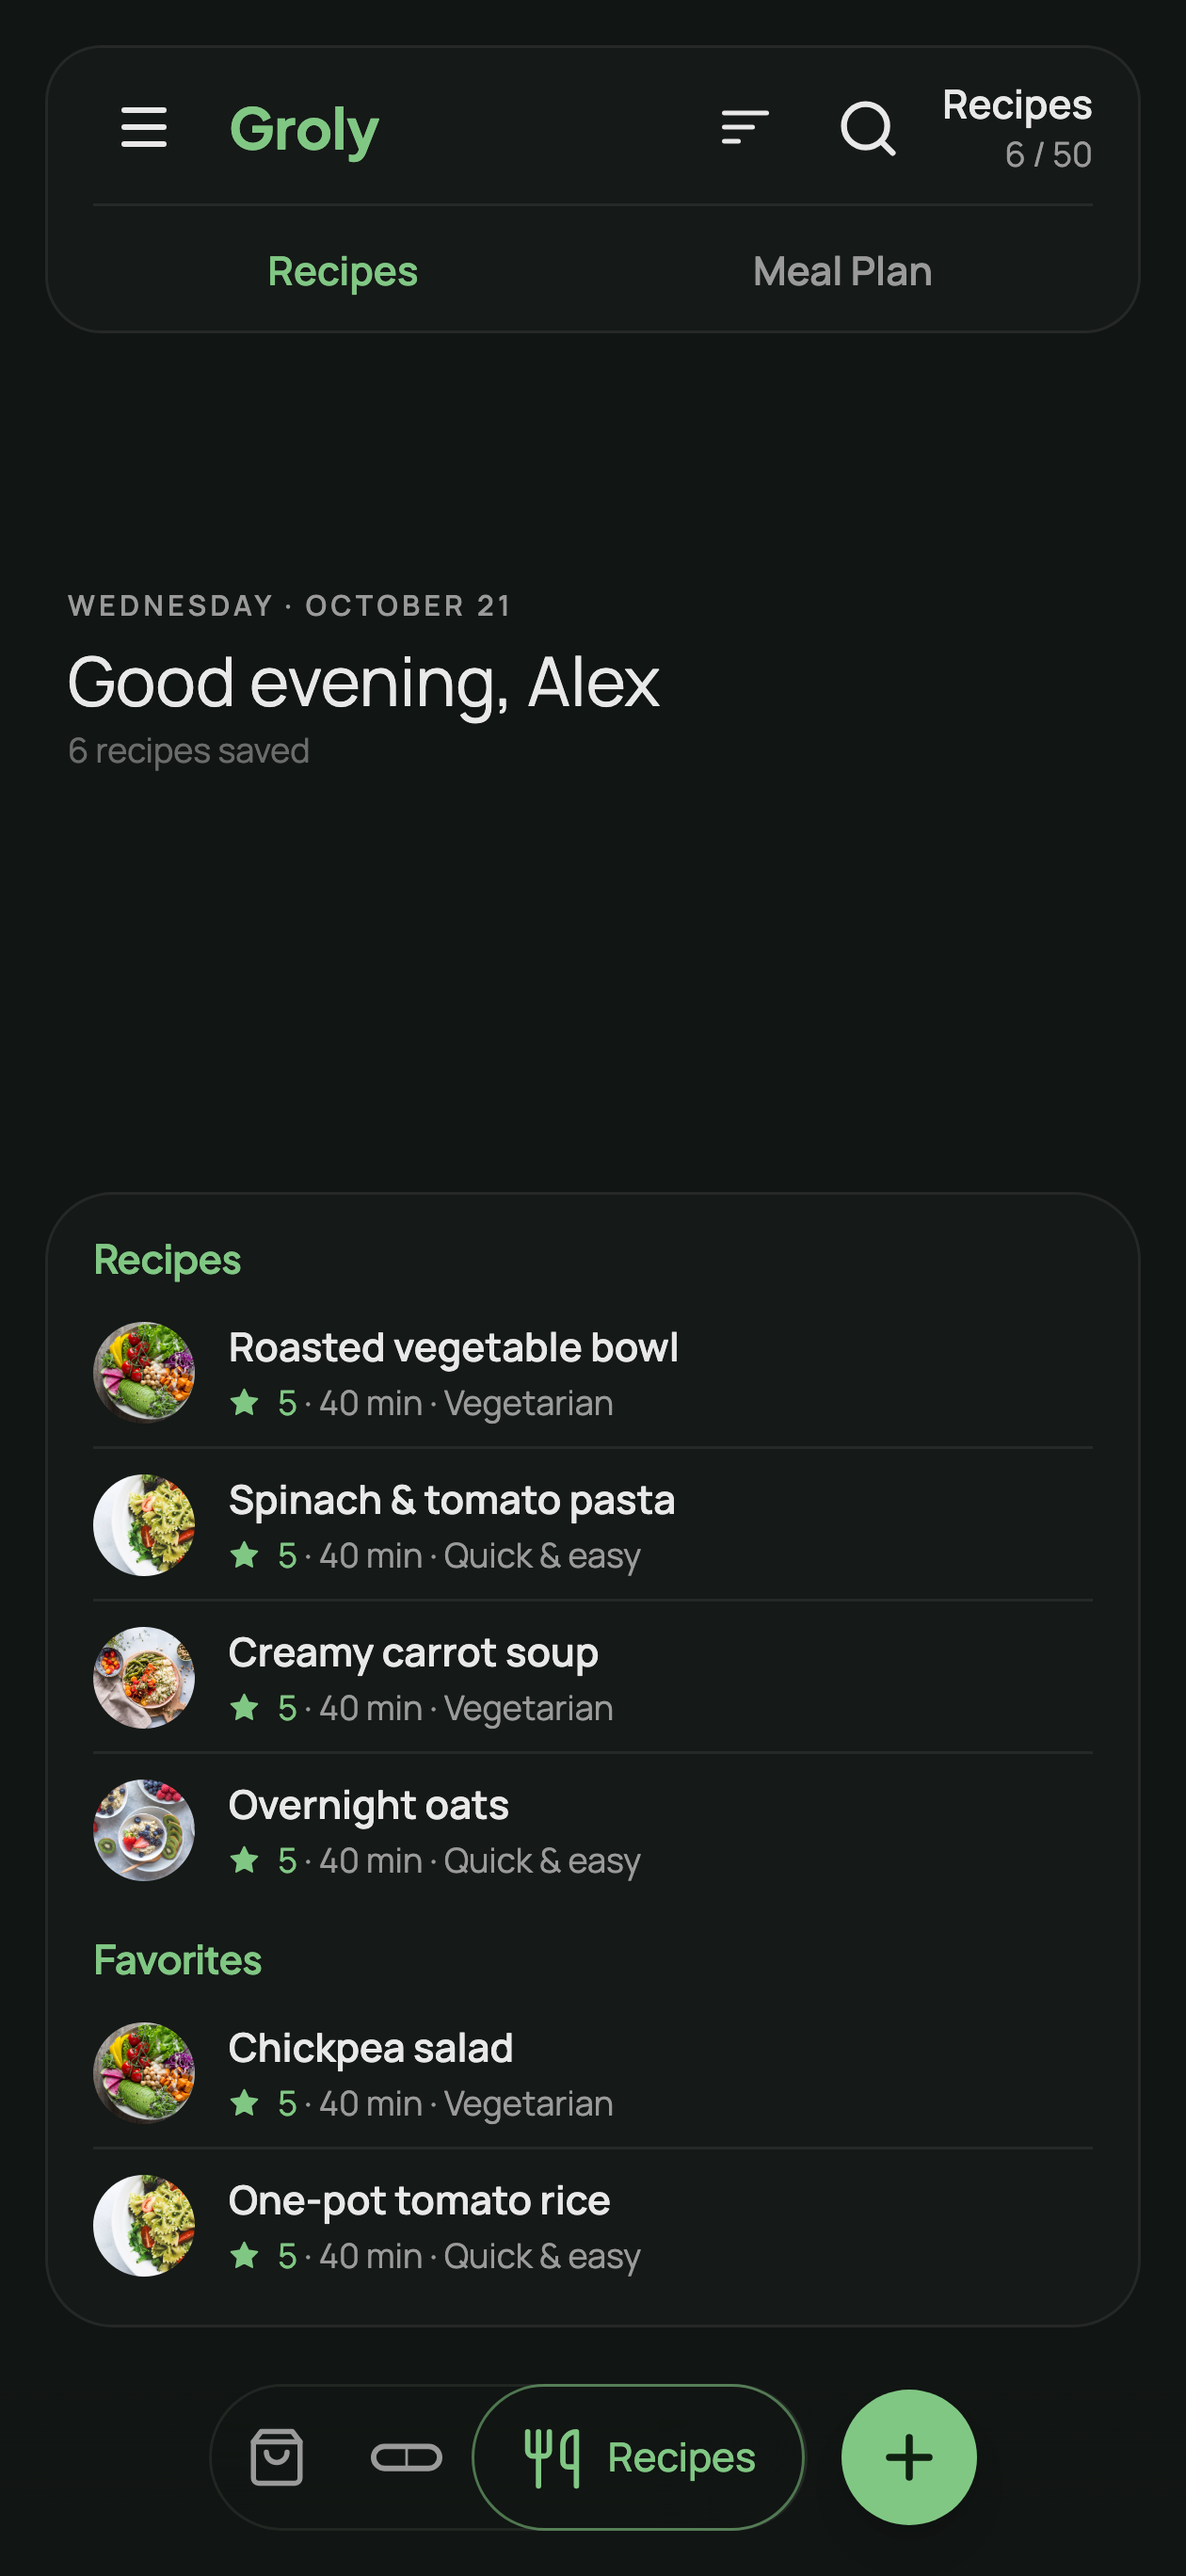
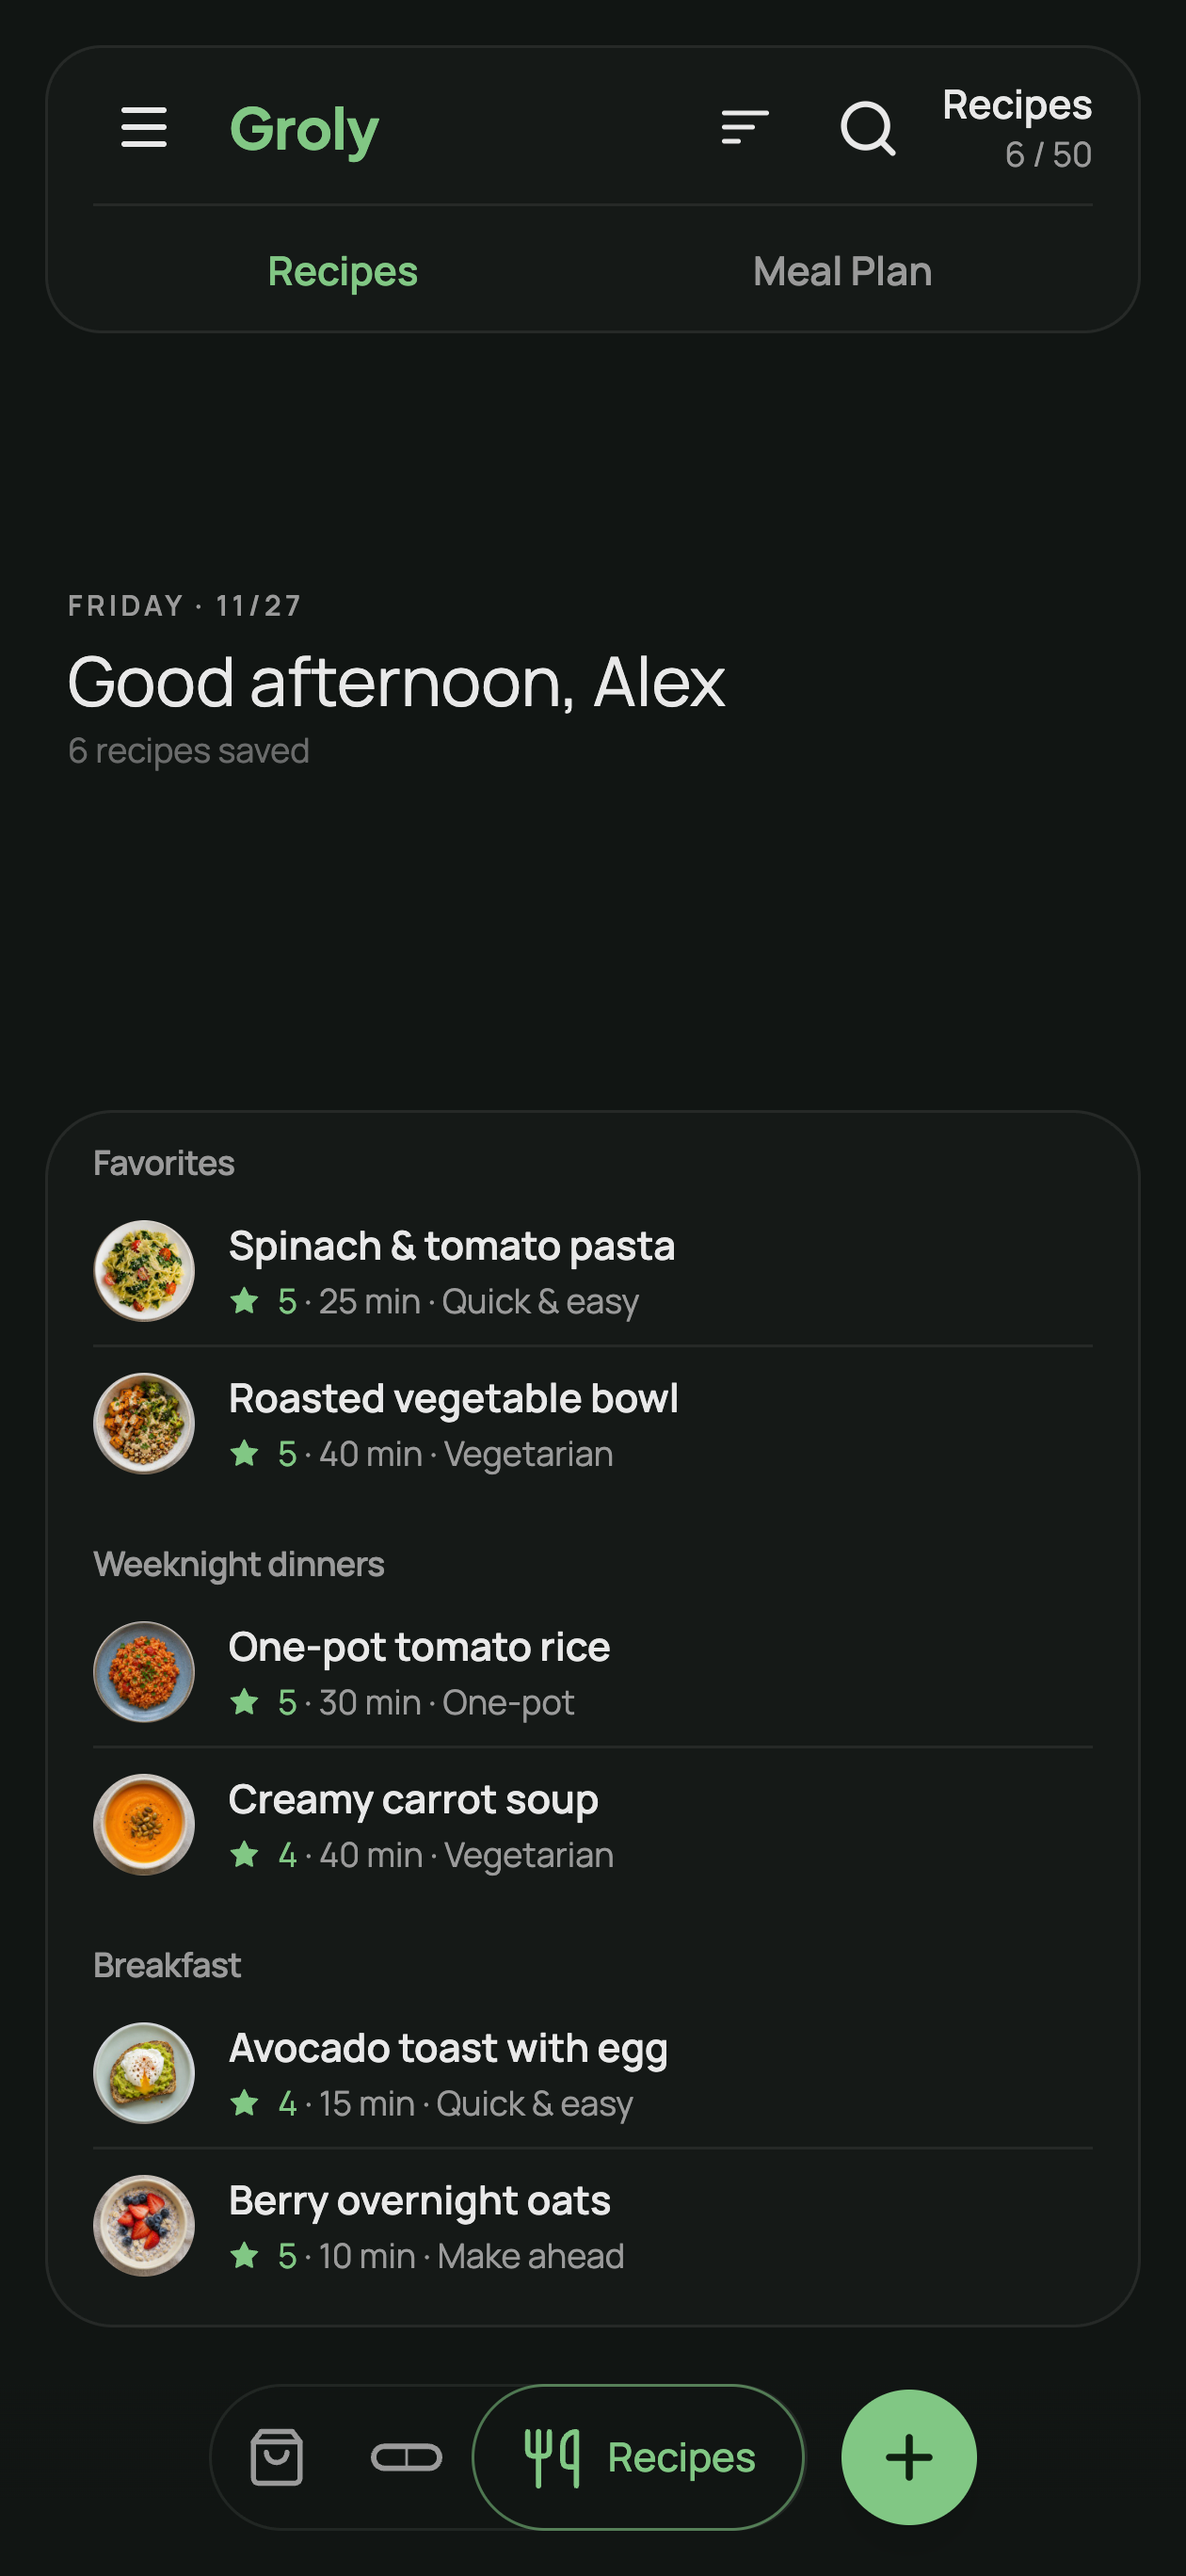
feat: release Groly 1.1.0

Changed region(s): [[0.0619, 0.4349, 0.5571, 0.901], [0.1238, 0.2175, 0.619, 0.2796], [0.0619, 0.2175, 0.0929, 0.2485]]

diff --git a/src/lib/changelog.ts b/src/lib/changelog.ts
@@ -3,33 +3,22 @@
 export type ChangelogEntry = { version: string; intro?: { de: string; en: string }; de: string[]; en: string[] };
 export const CHANGELOG: ChangelogEntry[] = [
 	{
-		version: '1.1.0-beta.2',
+		version: '1.1.0',
 		de: [
-			'Supplement-Einträge aus „Heute“ landen auch nach Mitternacht am richtigen Tag.',
-			'Hochgeladene Bilder sind nur für berechtigte Konten sichtbar. Geteilte Rezepte behalten ihre Bildvorschau.',
-			'Beim Abmelden werden offene Groly-Tabs desselben Kontos im Browser ebenfalls abgemeldet.'
+			'Neu sind gemeinsame Checklisten mit Abschnitten, Notizen und Erinnerungen.',
+			'Offene Einkaufsartikel lassen sich jetzt auch nach Name sortieren, von A bis Z oder von Z bis A.',
+			'Rezepte in eigenen Kategorien organisieren.',
+			'Wähle aus verschiedenen Datums- und Uhrzeitformaten.',
+			'Supplement-Schnellerfassung und Kontodatenschutz verbessert.',
+			'Die automatische Löschung abgehakter Einkaufsartikel nach 60 Tagen lässt sich deaktivieren.'
 		],
 		en: [
-			'Supplement entries logged from Today use the correct date after midnight.',
-			'Uploaded images are visible only to authorized accounts. Shared recipes retain their image previews.',
-			'Signing out also signs out other open Groly tabs for the same account in the browser.'
-		]
-	},
-	{
-		version: '1.1.0-beta.1',
-		de: [
-			'Erstelle gemeinsame Checklisten mit Abschnitten, Notizen und einmaligen Erinnerungen. Du kannst sie duplizieren oder alle Einträge wieder öffnen.',
-			'Organisiere deine Rezepte in eigenen Kategorien. Bestehende Favoriten findest du in der Kategorie „Favoriten“.',
-			'Sortiere offene Einkaufsartikel nach Kategorie, von A–Z oder Z–A, oder schalte die Sortierung aus. Die Einstellung gilt global oder pro Liste.',
-			'Wähle dein Datums- und Uhrzeitformat einmal für dein Konto. Die Auswahl gilt auch auf deinen anderen Geräten.',
-			'Nach Häufigkeit sortierte Supplement-Kacheln behalten beim schnellen Loggen ihre Position. Die Reihenfolge aktualisiert sich beim nächsten Öffnen.'
-		],
-		en: [
-			'Create shared checklists with sections, notes, and one-time reminders. Duplicate a checklist or reopen all its entries.',
-			'Organize recipes into your own categories. Existing favorites appear in the Favorites category.',
-			'Sort open shopping items by category, A–Z, or Z–A, or turn sorting off. Set a default or choose a different order for each list.',
-			'Choose your date and time formats once for your account. Your choices apply across devices.',
-			'Supplement tiles sorted by frequency stay in place while you log. The order updates the next time you open Quick Log.'
+			'New shared checklists with sections, notes, and reminders.',
+			'Open shopping items can now also be sorted by name, A–Z or Z–A.',
+			'Organize recipes into custom categories.',
+			'Choose from different date and time formats.',
+			'Improved supplement quick logging and account privacy.',
+			'The automatic removal of checked shopping items after 60 days can now be turned off.'
 		]
 	},
 {

diff --git a/README.md b/README.md
@@ -30,20 +30,25 @@ See the [deployment guides](#deployment) for Docker Compose, Unraid, Synology, T
   </thead>
   <tbody>
     <tr>
-      <td align="center"><img src="docs/screenshots/Shopping List overview.png" width="180" alt="Overview of all shared shopping lists" /></td>
+      <td align="center"><img src="docs/screenshots/Shopping List overview.png" width="180" alt="Shopping lists and a packing checklist with its completion progress" /></td>
       <td align="center"><img src="docs/screenshots/Shopping List.png" width="180" alt="Shopping list with categorized items" /></td>
       <td align="center"><img src="docs/screenshots/Shopping List Favorites.png" width="180" alt="Favourite items ready to add to a shopping list" /></td>
     </tr>
   </tbody>
 </table>
 
-Shared, offline-first shopping lists with real-time sync, smart suggestions, barcode scanning, and automatic categorization.
+Shared, offline-first shopping lists with real-time sync, smart suggestions, barcode scanning, and automatic categorization. Use checklists to organize and track tasks together.
 
 <details>
 <summary><strong>Show all shopping-list features</strong></summary>
 
+<p align="center">
+  <img src="docs/screenshots/Checklist.png" width="180" alt="Weekend packing checklist with sections, notes, and completed tasks" />
+</p>
+
 #### Features
 
+- **Checklists** – Create shared checklists with sections, entry notes, and one-time reminders. See your progress as you check off tasks.
 - **Shared lists** – Share lists with other users; changes sync in real time via Server-Sent Events.
 - **Offline-first** – Add, check off, edit, and delete items without internet. Changes sync automatically when back online.
 - **Barcode scan** – Scan product barcodes with your camera to add items directly to your list (iOS and Android). Uses the native [BarcodeDetector API](https://developer.mozilla.org/en-US/docs/Web/API/BarcodeDetector) where available (Chrome/Android) with [ZBar WASM](https://github.com/undecaf/zbar-wasm) as a fallback for iOS and Firefox. Product names are looked up via [Open Food Facts](https://world.openfoodfacts.org/), [Open Products Facts](https://world.openproductsfacts.org/), and [Open Beauty Facts](https://world.openbeautyfacts.org/) — open, community-maintained product databases covering food, household, and personal care items. No API key required. Lookups are routed through your server (user IPs are not exposed) and cached persistently in SQLite. An offline indicator is shown in the scanner when there is no internet connection.
@@ -193,7 +198,7 @@ A full food diary with calorie and macro tracking, built on the same [Open Food 
   </thead>
   <tbody>
     <tr>
-      <td align="center"><img src="docs/screenshots/Recipes.png" width="180" alt="Overview of saved recipes" /></td>
+      <td align="center"><img src="docs/screenshots/Recipes.png" width="180" alt="Saved recipes grouped into Favorites, Weeknight dinners, and Breakfast" /></td>
       <td align="center"><img src="docs/screenshots/Recipes_detail.png" width="180" alt="Recipe details with ingredients and serving controls" /></td>
       <td align="center"><img src="docs/screenshots/Meal Planner.png" width="180" alt="Weekly meal planner with scheduled recipes" /></td>
     </tr>
@@ -208,6 +213,7 @@ Create and organize recipes, scale servings, plan the week, and send ingredients
 #### Features
 
 - **Recipes** – Create and manage recipes, scale servings, and add ingredients directly to a shopping list. Import recipes from popular recipe websites by URL.
+- **Recipe categories** – Group saved recipes into your own categories, such as weeknight dinners or breakfast.
 - **Weekly meal planner** – Plan meals for every day of the week. Assign recipes or free-text entries per day, adjust servings, and add ingredients from individual days or the entire week directly to a shopping list. Navigate forwards and backwards by week. Configurable as a quick access shortcut.
 
 </details>
